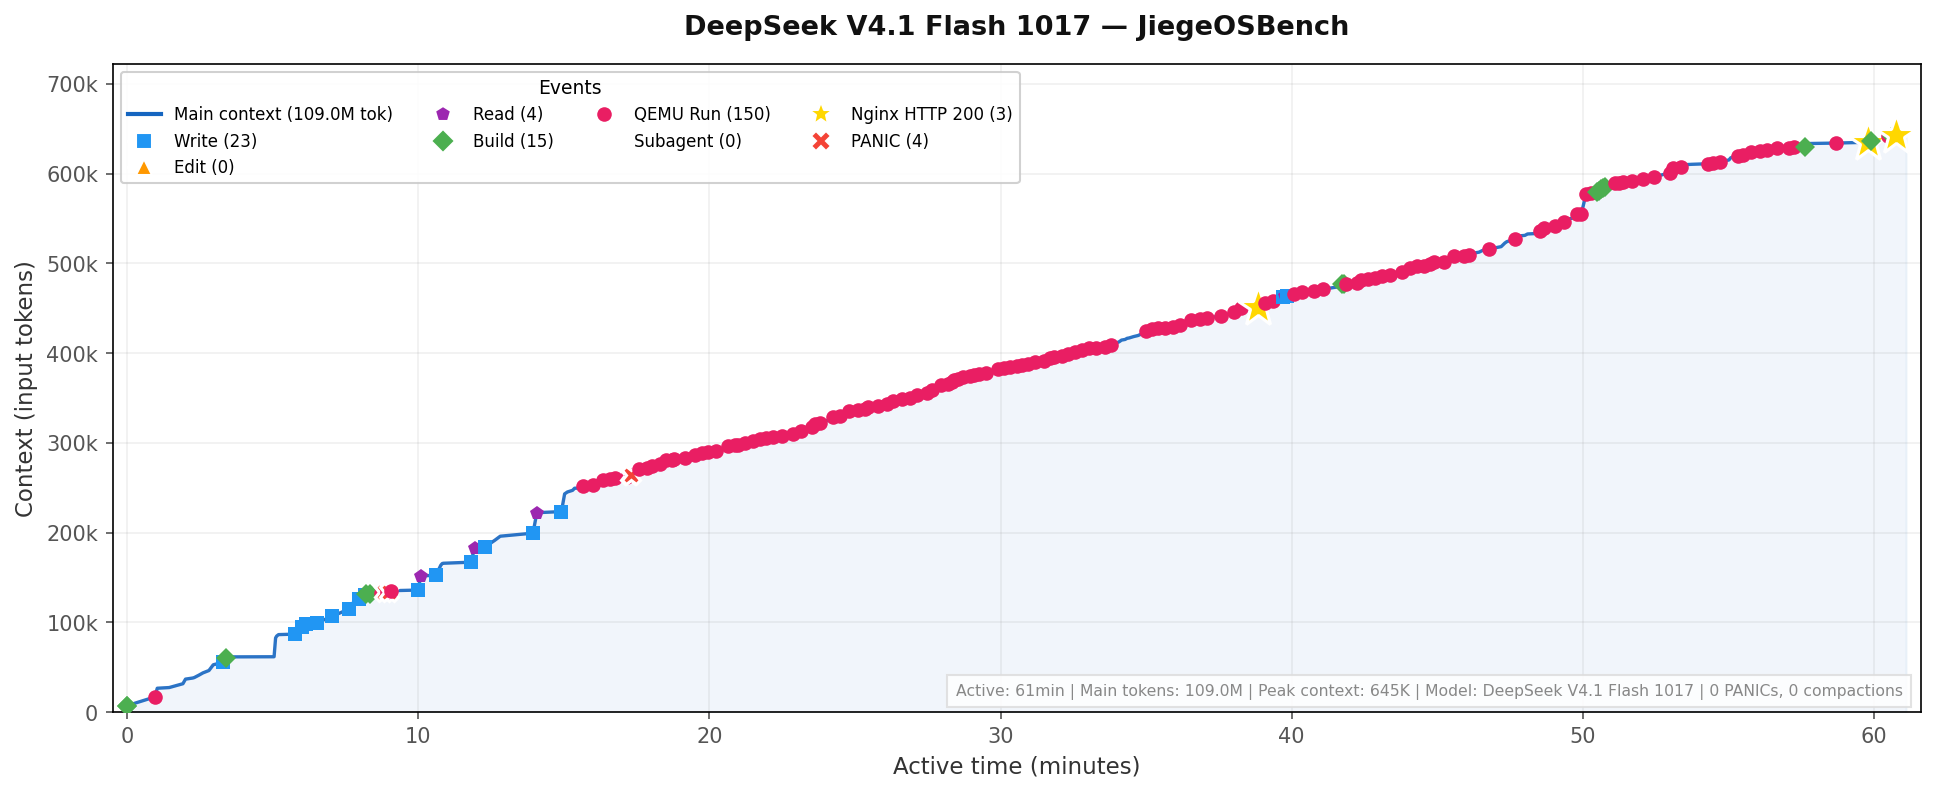
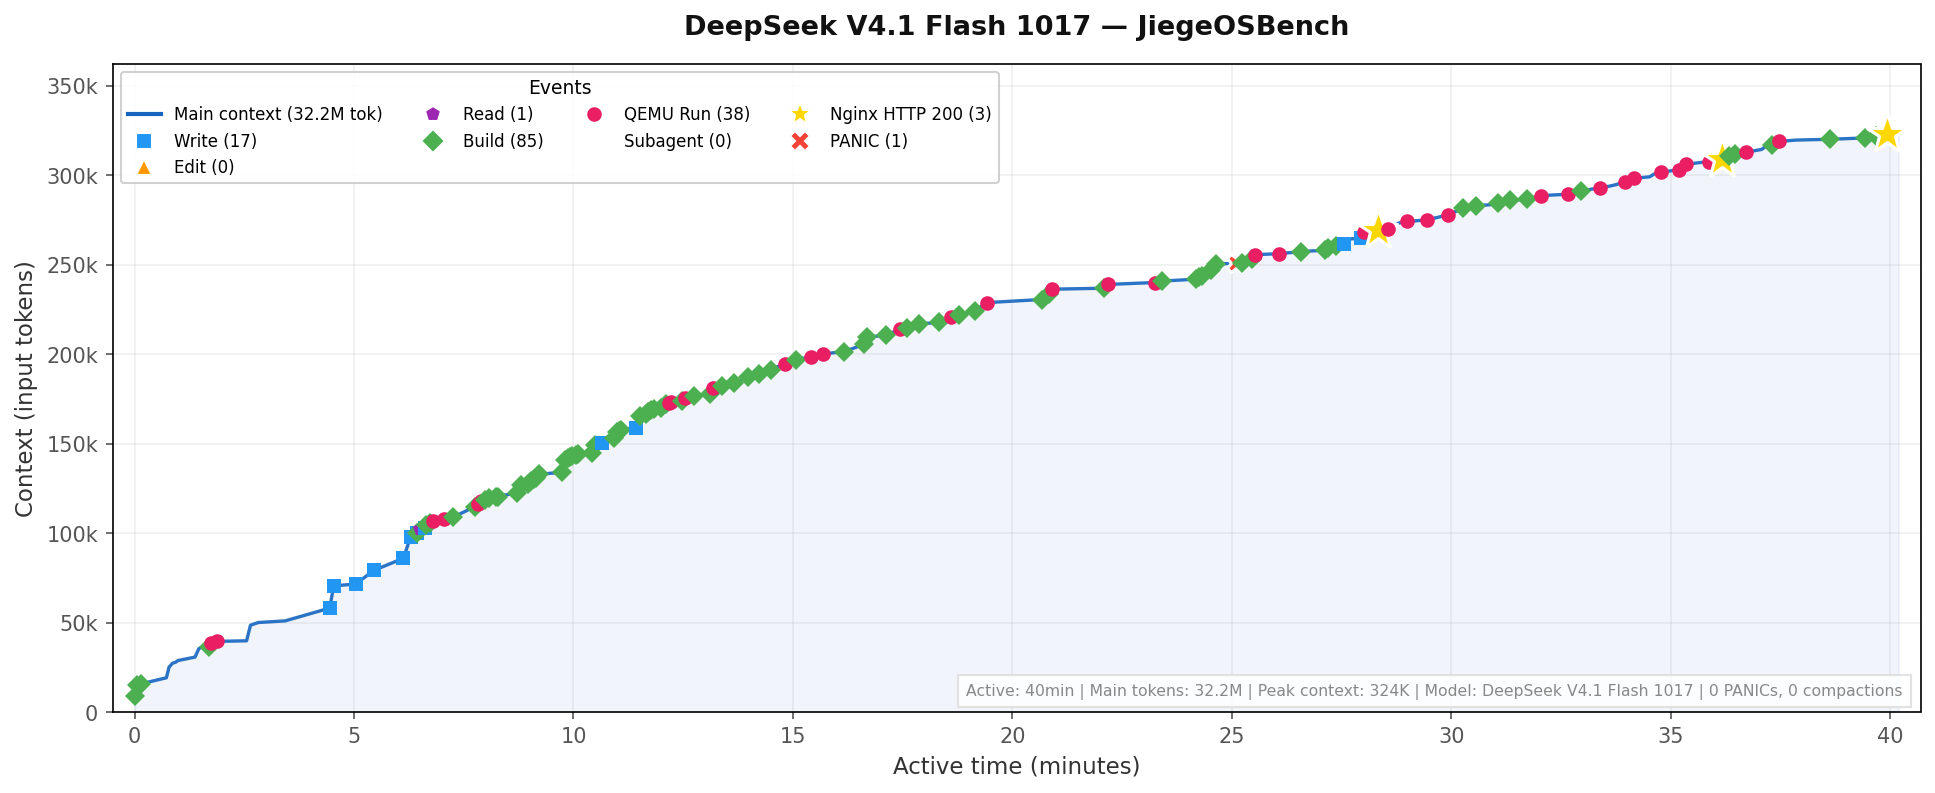
Update DeepSeek V4.1 Flash 1017 row with the 28min/40min rerun (no-MMU kernel, Alpine apk rootfs, $0.26)

diff --git a/README-CN.md b/README-CN.md
@@ -12,10 +12,10 @@
 | 🏅 | GPT-6 Astra | 高 | Codex | 6分钟 | 9分钟 | 83K | $4 | 9 | 2026-09-05 | 👑 杰哥 |
 | 🥈 | Claude Opus 5.5 | 高 | CC | 12分钟 | 14分钟 | 109K | $9.5 | 2 | 2026-09-30 | 🧠 智能杰哥 |
 | 🥉 | GPT-6.1 Sol | 高 | Codex | 18分钟 | 33分钟 | 132K | $0.95 | 8 | 2026-09-30 | 🧠 智能杰哥 |
-| 4 | DeepSeek V4.1 Flash 0910 | 高 | DSH | 30分钟 | 47分钟 | 350K | $0.28 | 36 | 2026-09-10 | 🧠 智能杰哥 |
-| 5 | GPT 5.6 Sol | 高 | Codex | 33分钟 | 49分钟 | 222K | $14 | 29 | 2026-07-11 | 🧠 智能杰哥 |
-| 6 | Claude Fable 5 | 高 | CC | 35分钟 | 41分钟 | 155K | $21 | 4 | 2026-07-05 | 🧠 智能杰哥 |
-| 7 | DeepSeek V4.1 Flash 1017 | 高 | DSH | 40分钟 | 1小时2分 | 645K | $0.65 | 124 | 2026-10-17 | 🧠 智能杰哥 |
+| 4 | DeepSeek V4.1 Flash 1017 | 高 | DSH | 28分钟 | 40分钟 | 323K | $0.26 | 60 | 2026-10-18 | 🧠 智能杰哥 |
+| 5 | DeepSeek V4.1 Flash 0910 | 高 | DSH | 30分钟 | 47分钟 | 350K | $0.28 | 36 | 2026-09-10 | 🧠 智能杰哥 |
+| 6 | GPT 5.6 Sol | 高 | Codex | 33分钟 | 49分钟 | 222K | $14 | 29 | 2026-07-11 | 🧠 智能杰哥 |
+| 7 | Claude Fable 5 | 高 | CC | 35分钟 | 41分钟 | 155K | $21 | 4 | 2026-07-05 | 🧠 智能杰哥 |
 | 8 | Claude Opus 4.8 | 高 | CC | 40分钟 | 42分钟 | 230K | $12 | 19 | 2026-09-05 | 🧠 智能杰哥 |
 | 9 | Claude Opus 4.7 | — | CC | 45分钟 | 48分钟 | — | — | — | 2026-04-18 | 🧠 智能杰哥 |
 | 10 | Claude Fable 5.1 | 高 | CC | 58分钟 | 1小时45分 | 516K | $34 | 13 | 2026-09-05 | 🧠 智能杰哥 |
@@ -182,20 +182,19 @@ Claude Code 运行 **约 58 分钟** 达成首次 HTTP 200（105 分钟全部完
 | 01:02 | 套件全绿：index/404/HEAD/sendfile 4MiB/keep-alive |
 | 01:45 | 信号/并发/泄漏/吞吐套件、README、git 提交 ✅ |
 
-## DeepSeek V4.1 Flash 1017 — 40分钟 / 1小时2分
+## DeepSeek V4.1 Flash 1017 — 28分钟 / 40分钟
 
 ![DeepSeek V4.1 Flash 1017 Timeline](figures/deepseek-v4.1-flash-1017-timeline.png)
 
-刚发布的 **DeepSeek-V4.1-Flash（1017）**，DSH **标准模式**、**高**思考强度：**活跃 61 分钟、零停顿**，首次 host 侧 HTTP 200 在 **40 分钟**（`Server: nginx/1.28.3`）。路线与 0910 相同——官方 `nginx-1.28.3.tar.gz`（sha256 校验）+ `zig cc -target riscv64-linux-musl -static`，**nginx 源码一行未改**（只改 configure 的交叉编译探测脚本）——内核更大（约 7,400 行、legacy **与** modern virtio-net、`sendfile`、信号走内核侧 sigreturn trampoline），`tools/test.sh` 验证通过（512 KiB 字节级一致、404、HEAD、keep-alive、20 并发、60 秒 soak、SIGTERM）。纯黑盒、上下文峰值 645K、**$0.65**。
+同一个 **DeepSeek-V4.1-Flash（1017）**、DSH **标准模式**，换了一套完全不同的设计重跑：**首次 host 侧 HTTP 200 用 28 分钟，总时长 40 分钟**，无停顿，上下文峰值 323K，非峰价 **$0.26**。这次内核**没有 MMU**（单地址空间，nginx 在 S 态经系统调用兼容层直接运行），rootfs 用**官方 Alpine apk 原包**——nginx 1.26.3 + pcre2/zlib/openssl，从 `dl-cdn.alpinelinux.org` 解包、二进制未改、musl 动态链接——nginx 单进程运行（`master_process off`）。60 次 QEMU 启动、1 次 panic、纯黑盒（0 搜索、0 clone）；验证：`curl -i` → `200 OK`、`Server: nginx/1.26.3`、211 字节页面。
 
 | 时间 | 里程碑 |
 |------|--------|
-| 00:02 | 下载官方 `nginx-1.28.3.tar.gz` 并校验 sha256，`zig cc` 交叉编译启动 |
-| 00:10 | 内核首次在 QEMU 里出输出（OpenSBI → 内核），随后数秒内首次 panic |
-| 00:26 | 客户机内 nginx worker 进程起来 |
-| 00:40 | 宿主机首次拿到 HTTP 200 —— `Server: nginx/1.28.3` 🎉 |
-| 00:55 | `tools/test.sh` 全绿（512 KiB 字节一致、404、HEAD、keep-alive、20 并发、60 秒 soak） |
-| 01:01 | 最终 `curl -i`：2054 字节完整页面，keep-alive + ETag；SIGTERM 优雅退出验证通过 |
+| 00:02 | 拉取 Alpine 3.20 riscv64 apk（nginx 1.26.3 + pcre2/zlib/openssl）解包进内嵌 rootfs；首次 QEMU 启动 |
+| 00:13 | guest 内 nginx 1.26.3 跑起来（musl 动态、未改） |
+| 00:25 | 首次 panic（内存路径），随后修复 |
+| 00:28 | 宿主机首次 HTTP 200 —— `Server: nginx/1.26.3` 🎉 |
+| 00:40 | 最终 `curl -i`：211 字节页面，keep-alive + ETag；目标达成 |
 
 ### GPT 5.6 Sol — 33分钟 / 49分钟
 

diff --git a/README.md b/README.md
@@ -19,10 +19,10 @@ Prompt:
 | 🏅 | GPT-6 Astra | High | Codex | 6min | 9min | 83K | $4 | 9 | 2026-09-05 | 👑 Jiege |
 | 🥈 | Claude Opus 5.5 | High | CC | 12min | 14min | 109K | $9.5 | 2 | 2026-09-30 | 🧠 Intelligent Jiege |
 | 🥉 | GPT-6.1 Sol | High | Codex | 18min | 33min | 132K | $0.95 | 8 | 2026-09-30 | 🧠 Intelligent Jiege |
-| 4 | DeepSeek V4.1 Flash 0910 | High | DSH | 30min | 47min | 350K | $0.28 | 36 | 2026-09-10 | 🧠 Intelligent Jiege |
-| 5 | GPT 5.6 Sol | High | Codex | 33min | 49min | 222K | $14 | 29 | 2026-07-11 | 🧠 Intelligent Jiege |
-| 6 | Claude Fable 5 | High | CC | 35min | 41min | 155K | $21 | 4 | 2026-07-05 | 🧠 Intelligent Jiege |
-| 7 | DeepSeek V4.1 Flash 1017 | High | DSH | 40min | 1h 2min | 645K | $0.65 | 124 | 2026-10-17 | 🧠 Intelligent Jiege |
+| 4 | DeepSeek V4.1 Flash 1017 | High | DSH | 28min | 40min | 323K | $0.26 | 60 | 2026-10-18 | 🧠 Intelligent Jiege |
+| 5 | DeepSeek V4.1 Flash 0910 | High | DSH | 30min | 47min | 350K | $0.28 | 36 | 2026-09-10 | 🧠 Intelligent Jiege |
+| 6 | GPT 5.6 Sol | High | Codex | 33min | 49min | 222K | $14 | 29 | 2026-07-11 | 🧠 Intelligent Jiege |
+| 7 | Claude Fable 5 | High | CC | 35min | 41min | 155K | $21 | 4 | 2026-07-05 | 🧠 Intelligent Jiege |
 | 8 | Claude Opus 4.8 | High | CC | 40min | 42min | 230K | $12 | 19 | 2026-09-05 | 🧠 Intelligent Jiege |
 | 9 | Claude Opus 4.7 | — | CC | 45min | 48min | — | — | — | 2026-04-18 | 🧠 Intelligent Jiege |
 | 10 | Claude Fable 5.1 | High | CC | 58min | 1h 45min | 516K | $34 | 13 | 2026-09-05 | 🧠 Intelligent Jiege |
@@ -189,20 +189,19 @@ Claude Code ran for **~58min** to first HTTP 200 (goal complete at 105min) — t
 | 01:02 | Suite green: index/404/HEAD/sendfile 4MiB/keep-alive |
 | 01:45 | Signal/concurrency/leak/throughput suites, README, git commit ✅ |
 
-## DeepSeek V4.1 Flash 1017 — 40min / 1h 2min
+## DeepSeek V4.1 Flash 1017 — 28min / 40min
 
 ![DeepSeek V4.1 Flash 1017 Timeline](figures/deepseek-v4.1-flash-1017-timeline.png)
 
-The freshly released **DeepSeek-V4.1-Flash (1017)** at **High** effort in DSH's **standard** preset: **61 minutes active with zero idle gaps**, first host HTTP 200 at **40min** (`Server: nginx/1.28.3`). Same route as 0910 — official `nginx-1.28.3.tar.gz` (sha256-verified), `zig cc -target riscv64-linux-musl -static`, **zero nginx source edits** (only configure-time probes patched) — with a bigger kernel (~7,400 lines, legacy **and** modern virtio-net, `sendfile`, signals via a kernel-side sigreturn trampoline); verified by `tools/test.sh` (byte-identical 512 KiB, 404, HEAD, keep-alive, 20 concurrent, 60-second soak, SIGTERM). Pure black-box, 645K peak context, **$0.65**.
+The same **DeepSeek-V4.1-Flash (1017)** model on DSH's **standard** preset, rerun with a completely different design: **28 minutes to the first host HTTP 200, 40 minutes total**, no idle gaps, peak context 323K, **$0.26** at the off-peak rates. This kernel has **no MMU** (single address space; nginx runs in S-mode behind a syscall shim) and serves from the **official Alpine apk set** — nginx 1.26.3 + pcre2/zlib/openssl unpacked from `dl-cdn.alpinelinux.org`, binary untouched, musl dynamic — with nginx as a single process (`master_process off`). 60 QEMU boots, 1 panic, pure black-box (0 web searches, 0 git clones); verified by `curl -i` → `200 OK`, `Server: nginx/1.26.3`, 211-byte page.
 
 | Time | Milestone |
 |------|-----------|
-| 00:02 | Official `nginx-1.28.3.tar.gz` fetched + sha256-verified; `zig cc` cross-build starts |
-| 00:10 | First kernel output in QEMU (OpenSBI → kernel); first panics within seconds |
-| 00:26 | nginx worker processes start inside the guest |
-| 00:40 | First host HTTP 200 — `Server: nginx/1.28.3` 🎉 |
-| 00:55 | `tools/test.sh` green (byte-identical 512 KiB, 404, HEAD, keep-alive, 20× concurrent, 60 s soak) |
-| 01:01 | Final `curl -i`: full 2054-byte page with keep-alive + ETag; SIGTERM shutdown verified |
+| 00:02 | Alpine 3.20 riscv64 apks (nginx 1.26.3 + pcre2/zlib/openssl) fetched and unpacked into an embedded rootfs; first QEMU boot |
+| 00:13 | nginx 1.26.3 running in the guest (musl dynamic, unmodified) |
+| 00:25 | First panic (memory path), fixed |
+| 00:28 | First host HTTP 200 — `Server: nginx/1.26.3` 🎉 |
+| 00:40 | Final `curl -i`: 211-byte page with keep-alive + ETag; objective complete |
 
 ### GPT 5.6 Sol — 33min / 49min
 
